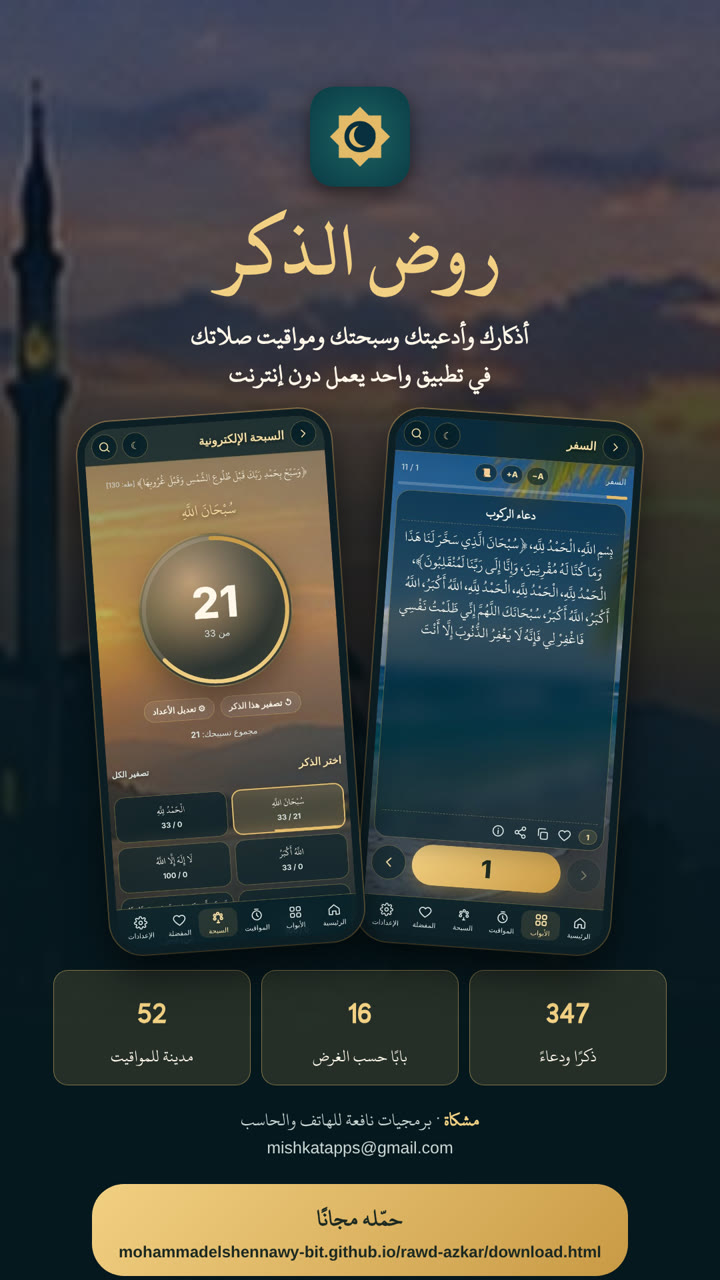
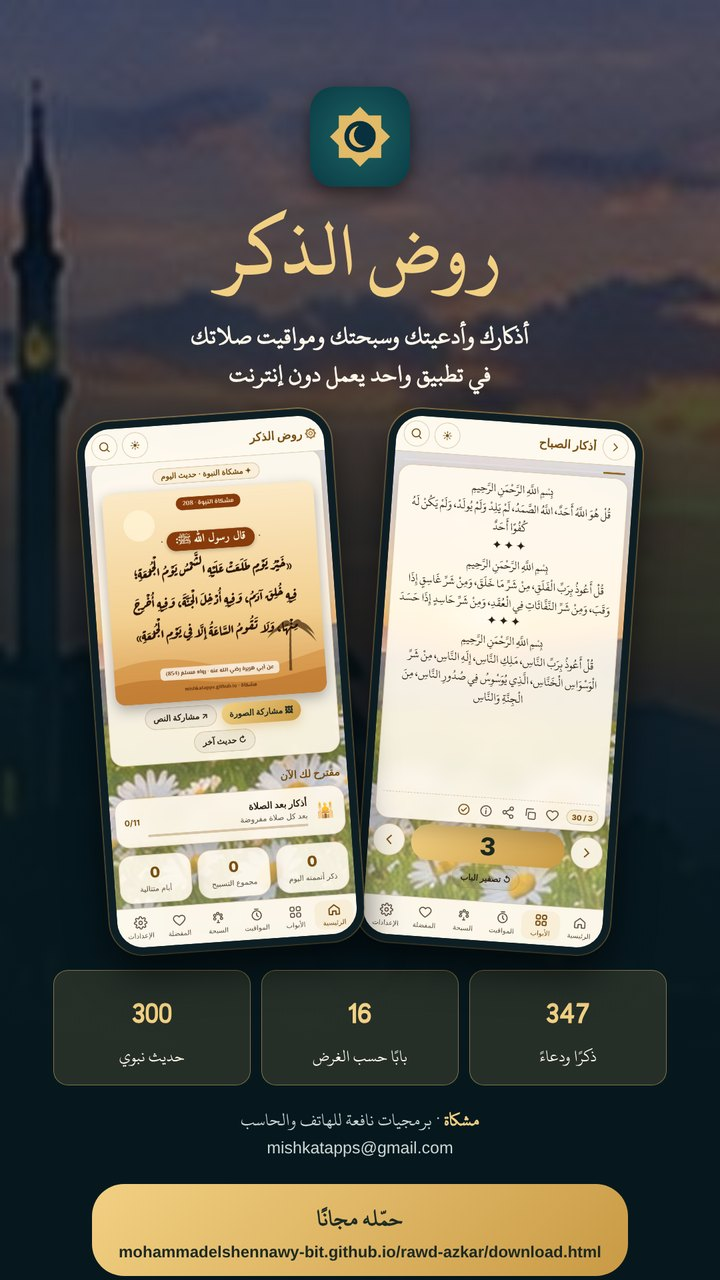
Add files via upload

diff --git a/index.html b/index.html
@@ -108,7 +108,7 @@ footer{text-align:center;color:var(--mut);font-size:14px;padding:30px 20px calc(
 <script>/* يظهر رابط «بوابة البرامج» فقط إذا فعّله المدير */(function(){try{fetch("https://uakmtakkctlkjvuityug.supabase.co/rest/v1/rpc/portal_status",{method:"POST",headers:{apikey:"sb_publishable_qHWTZdtAJgTlYMmYuGq2mA_6nE8nX-J","Content-Type":"application/json"},body:"{}"}).then(function(r){return r.ok?r.json():false}).then(function(v){if(v===true){var a=document.getElementById("mkPortalLink");if(a)a.style.display=""}}).catch(function(){})}catch(e){}})();</script>
 
 <header class="hero" id="top"><div class="wrap">
-<div class="heroapps"><a class="appbtn" href="https://mohammadelshennawy-bit.github.io/Quran-app/" data-ev="open-quran"><img src="img/quran-icon.png" alt=""><span data-en="The Noble Quran">المصحف الشريف</span></a><a class="appbtn" href="https://mohammadelshennawy-bit.github.io/rawd-azkar/" data-ev="open-rawd"><img src="img/rawd-icon.png" alt=""><span data-en="Rawd al-Dhikr">روض الذكر</span></a></div>
+<div class="heroapps"><a class="appbtn" href="https://mohammadelshennawy-bit.github.io/Quran-app/" data-ev="open-quran"><img src="img/quran-icon.png?v=2" alt=""><span data-en="The Noble Quran">المصحف الشريف</span></a><a class="appbtn" href="https://mohammadelshennawy-bit.github.io/rawd-azkar/" data-ev="open-rawd"><img src="img/rawd-icon.png?v=2" alt=""><span data-en="Rawd al-Dhikr">روض الذكر</span></a></div>
 <img src="img/mishkat.svg" alt="شعار مشكاة" data-en-alt="Mishkat logo">
 <h1 data-en="Mishkat">مشكاة</h1>
 <div class="en">MISHKAT APPS</div>
@@ -137,11 +137,11 @@ footer{text-align:center;color:var(--mut);font-size:14px;padding:30px 20px calc(
 <section id="apps"><div class="wrap">
 <h2 data-en="Our Apps">تطبيقاتنا</h2><p class="sub" data-en="Download the app you want — or open it in your browser from the buttons at the top of the page">حمّل التطبيق الذي تريده — أو افتحه في المتصفح من الزرين أعلى الصفحة</p>
 <div class="apps">
- <article class="app"><div class="h"><img src="img/quran-icon.png" alt=""><div><h3 data-en="The Noble Quran">المصحف الشريف</h3><small data-en="Hafs ʿan ʿAsim narration">برواية حفص عن عاصم</small><span class="ver" id="verQuran">…</span></div></div>
-  <ul data-en="<li>114 surahs and 6,236 verses in the Uthmani script</li><li>5 Mushaf fonts, including the Madinah Mushaf (Hafs), with adjustable size</li><li>Page view or continuous scroll, with night and day modes</li><li>Surah and Juz index, search in the Quran text, and bookmarks</li><li>Prayer times for 50 cities or your location, with a countdown to the next prayer</li><li>Works fully offline — free and ad-free</li>"><li>114 سورة و6236 آية بالرسم العثماني</li><li>5 خطوط للمصحف منها خط مصحف المدينة النبوية، مع تكبير الخط</li><li>عرض صفحات أو تمرير متصل، ووضع ليلي ونهاري</li><li>فهرس السور والأجزاء، والبحث في نص القرآن، وعلامات مرجعية</li><li>مواقيت الصلاة لـ50 مدينة أو لموقعك، مع عدّاد للصلاة القادمة</li><li>يعمل كاملًا دون إنترنت — مجاني وبلا إعلانات</li></ul>
+ <article class="app"><div class="h"><img src="img/quran-icon.png?v=2" alt=""><div><h3 data-en="The Noble Quran">المصحف الشريف</h3><small data-en="Hafs ʿan ʿAsim narration">برواية حفص عن عاصم</small><span class="ver" id="verQuran">…</span></div></div>
+  <ul data-en="&lt;li&gt;The complete Holy Quran in the Uthmani script&lt;/li&gt;&lt;li&gt;5 Mushaf fonts, including the Madinah Mushaf (Hafs), with adjustable size&lt;/li&gt;&lt;li&gt;Page view or continuous scroll, with night and day modes&lt;/li&gt;&lt;li&gt;Reading statistics: letters, words, verses and time for every session, with Khatma tracking&lt;/li&gt;&lt;li&gt;Surah and Juz index, search in the Quran text, and bookmarks&lt;/li&gt;&lt;li&gt;Prayer times for 52 cities or your location, with a countdown to the next prayer&lt;/li&gt;&lt;li&gt;Backup of your data; works fully offline — free and ad-free&lt;/li&gt;"><li>القرآن الكريم كاملًا بالرسم العثماني</li><li>5 خطوط للمصحف منها خط مصحف المدينة النبوية، مع تكبير الخط</li><li>عرض صفحات أو تمرير متصل، ووضع ليلي ونهاري</li><li>إحصاءات القراءة: الأحرف والكلمات والآيات وزمن كل جلسة، مع متابعة الختمة</li><li>فهرس السور والأجزاء، والبحث في نص القرآن، وعلامات مرجعية</li><li>مواقيت الصلاة لـ52 مدينة أو لموقعك، مع عدّاد للصلاة القادمة</li><li>نسخ احتياطي لبياناتك، ويعمل كاملًا دون إنترنت — مجاني وبلا إعلانات</li></ul>
   <div class="btns"><a class="btn gold" href="https://mohammadelshennawy-bit.github.io/Quran-app/download.html" data-ev="dl-quran" data-en="⬇ Download &amp; install">⬇ تحميل وتثبيت</a></div></article>
- <article class="app"><div class="h"><img src="img/rawd-icon.png" alt=""><div><h3 data-en="Rawd al-Dhikr">روض الذكر</h3><small data-en="Fully-vowelled adhkar &amp; duas — Arabic &amp; English">الأذكار والأدعية مشكولةً — بالعربية والإنجليزية</small><span class="ver" id="verRawd">…</span></div></div>
-  <ul data-en="<li>347 adhkar and duas in 16 sections, from Hisn al-Muslim and the Prophet’s ﷺ comprehensive supplications</li><li>Smart counter for every dhikr: complete or reset with one tap, with virtue and source</li><li>Automatic reset by prayer times: morning at Fajr, evening at Asr, sleep at Maghrib</li><li>Prayer times, “Suggested for you now”, and morning/evening/sleep reminders</li><li>Electronic tasbih with ready adhkar and your own custom adhkar</li><li>English: transliteration and translation under every dhikr · 3 themes and 4 Quranic fonts</li>"><li>347 ذكرًا ودعاءً في 16 بابًا من «حصن المسلم» وجوامع دعاء النبي <span style="font-family:Amiri,serif">ﷺ</span></li><li>عدّاد ذكي لكل ذكر: إتمام العدّ والتصفير بضغطة، مع الفضل والتخريج</li><li>تصفير تلقائي بمواقيت الصلاة: الصباح عند الفجر، والمساء عند العصر، والنوم عند المغرب</li><li>مواقيت الصلاة و«مقترح لك الآن» وتذكيرات الصباح والمساء والنوم</li><li>سبحة إلكترونية بأذكار جاهزة وأذكارك الخاصة</li><li>الإنجليزية: النطق والترجمة تحت كل ذكر · 3 سمات و4 خطوط قرآنية</li></ul>
+ <article class="app"><div class="h"><img src="img/rawd-icon.png?v=2" alt=""><div><h3 data-en="Rawd al-Dhikr">روض الذكر</h3><small data-en="Fully-vowelled adhkar &amp; duas — Arabic &amp; English">الأذكار والأدعية مشكولةً — بالعربية والإنجليزية</small><span class="ver" id="verRawd">…</span></div></div>
+  <ul data-en="&lt;li&gt;347 adhkar and duas in 16 sections, from Hisn al-Muslim and the Prophet’s ﷺ comprehensive supplications&lt;/li&gt;&lt;li&gt;Smart counter for every dhikr: complete or reset with one tap, with virtue and source&lt;/li&gt;&lt;li&gt;Automatic reset by prayer times: morning at Fajr, evening at Asr, sleep at Maghrib&lt;/li&gt;&lt;li&gt;“Mishkat al-Nubuwwa”: a fully-vowelled Prophetic hadith every day, from 300 hadiths, on a shareable card&lt;/li&gt;&lt;li&gt;Occasion greetings with stickers and images to share, and early reminders of upcoming occasions&lt;/li&gt;&lt;li&gt;Prayer times, “Suggested for you now”, and morning/evening/sleep reminders&lt;/li&gt;&lt;li&gt;Electronic tasbih with ready adhkar and your own custom adhkar&lt;/li&gt;&lt;li&gt;English: transliteration and translation under every dhikr · 3 themes and 4 Quranic fonts&lt;/li&gt;"><li>347 ذكرًا ودعاءً في 16 بابًا من «حصن المسلم» وجوامع دعاء النبي <span style="font-family:Amiri,serif">ﷺ</span></li><li>عدّاد ذكي لكل ذكر: إتمام العدّ والتصفير بضغطة، مع الفضل والتخريج</li><li>تصفير تلقائي بمواقيت الصلاة: الصباح عند الفجر، والمساء عند العصر، والنوم عند المغرب</li><li>«مشكاة النبوة»: حديث نبوي مشكول كل يوم من 300 حديث في بطاقة للمشاركة</li><li>تهاني المناسبات مع ملصقات وصور للمشاركة، وتذكير مسبق بالمناسبات</li><li>مواقيت الصلاة و«مقترح لك الآن» وتذكيرات الصباح والمساء والنوم</li><li>سبحة إلكترونية بأذكار جاهزة وأذكارك الخاصة</li><li>الإنجليزية: النطق والترجمة تحت كل ذكر · 3 سمات و4 خطوط قرآنية</li></ul>
   <div class="btns"><a class="btn gold" href="https://mohammadelshennawy-bit.github.io/rawd-azkar/download.html" data-ev="dl-rawd" data-en="⬇ Download &amp; install">⬇ تحميل وتثبيت</a></div></article>
 </div>
 <div class="stkHead"><h3><img src="img/stickers-icon.png" alt="" style="width:40px;height:40px;vertical-align:middle;border-radius:10px"> <span data-en="Mishkat Stickers — three WhatsApp apps">ملصقات مشكاة — ثلاثة تطبيقات لواتساب</span><span class="ver" id="verStk">…</span></h3>

diff --git a/media.html b/media.html
@@ -101,12 +101,12 @@ footer{text-align:center;color:var(--mut);font-size:14px;padding:30px 20px calc(
 <h2 data-en="Our Apps’ Ads">إعلانات تطبيقاتنا</h2><p class="sub" data-en="Share them with your family and friends — swipe the images left or right">شاركها مع أهلك وأصدقائك — اسحب الصور يمينًا أو يسارًا</p>
 <div class="tabs2"><button class="on" data-t="quran" data-en="The Noble Quran">المصحف الشريف</button><button data-t="rawd" data-en="Rawd al-Dhikr">روض الذكر</button></div>
 <div class="pane" id="p-quran"><div class="media">
- <div class="mcol"><h3 data-en="Ad images">صور الإعلان</h3><div class="cw"><div class="car" dir="rtl"><img src="ads/quran-1.jpg" alt="إعلان المصحف الشريف 1" loading="eager"><img src="ads/quran-2.jpg" alt="إعلان المصحف الشريف 2" loading="eager"><img src="ads/quran-3.jpg" alt="إعلان المصحف الشريف 3" loading="lazy"><img src="ads/quran-4.jpg" alt="إعلان المصحف الشريف 4" loading="lazy"><img src="ads/quran-5.jpg" alt="إعلان المصحف الشريف 5" loading="lazy"><img src="ads/quran-6.jpg" alt="إعلان المصحف الشريف 6" loading="lazy"><img src="ads/quran-7.jpg" alt="إعلان المصحف الشريف 7" loading="lazy"></div><span class="cnt">1/7</span><button class="nav pv" aria-label="السابقة" data-en-aria-label="Previous" hidden><svg width="18" height="18" viewBox="0 0 24 24" fill="none" stroke="currentColor" stroke-width="2.6" stroke-linecap="round" stroke-linejoin="round" style="display:block;margin:auto"><path d="M9 6l6 6-6 6"/></svg></button><button class="nav nx" aria-label="التالية" data-en-aria-label="Next"><svg width="18" height="18" viewBox="0 0 24 24" fill="none" stroke="currentColor" stroke-width="2.6" stroke-linecap="round" stroke-linejoin="round" style="display:block;margin:auto"><path d="M15 6l-6 6 6 6"/></svg></button></div><div class="dots"><i data-i="0" class=on></i><i data-i="1"></i><i data-i="2"></i><i data-i="3"></i><i data-i="4"></i><i data-i="5"></i><i data-i="6"></i></div></div>
+ <div class="mcol"><h3 data-en="Ad images">صور الإعلان</h3><div class="cw"><div class="car" dir="rtl"><img src="ads/quran-1.jpg?v=2" alt="إعلان المصحف الشريف 1" loading="eager"><img src="ads/quran-2.jpg?v=2" alt="إعلان المصحف الشريف 2" loading="eager"><img src="ads/quran-3.jpg?v=2" alt="إعلان المصحف الشريف 3" loading="lazy"><img src="ads/quran-4.jpg?v=2" alt="إعلان المصحف الشريف 4" loading="lazy"><img src="ads/quran-5.jpg?v=2" alt="إعلان المصحف الشريف 5" loading="lazy"><img src="ads/quran-6.jpg?v=2" alt="إعلان المصحف الشريف 6" loading="lazy"><img src="ads/quran-7.jpg?v=2" alt="إعلان المصحف الشريف 7" loading="lazy"></div><span class="cnt">1/7</span><button class="nav pv" aria-label="السابقة" data-en-aria-label="Previous" hidden><svg width="18" height="18" viewBox="0 0 24 24" fill="none" stroke="currentColor" stroke-width="2.6" stroke-linecap="round" stroke-linejoin="round" style="display:block;margin:auto"><path d="M9 6l6 6-6 6"/></svg></button><button class="nav nx" aria-label="التالية" data-en-aria-label="Next"><svg width="18" height="18" viewBox="0 0 24 24" fill="none" stroke="currentColor" stroke-width="2.6" stroke-linecap="round" stroke-linejoin="round" style="display:block;margin:auto"><path d="M15 6l-6 6 6 6"/></svg></button></div><div class="dots"><i data-i="0" class=on></i><i data-i="1"></i><i data-i="2"></i><i data-i="3"></i><i data-i="4"></i><i data-i="5"></i><i data-i="6"></i></div></div>
  <div class="mcol"><h3 data-en="Ad video">فيديو الإعلان</h3><video class="vid" controls playsinline preload="none" poster="video/quran-poster.jpg"><source src="video/quran.mp4" type="video/mp4"></video>
  <div class="dl"><a class="btn" href="video/quran.mp4" download data-en="⬇ Download video">⬇ تحميل الفيديو</a></div></div>
 </div><p style="text-align:center;margin-top:20px"><a class="btn gold" href="https://mohammadelshennawy-bit.github.io/Quran-app/download.html" data-en="⬇ Download The Noble Quran app">⬇ تحميل تطبيق المصحف الشريف</a></p></div>
 <div class="pane" id="p-rawd" hidden><div class="media">
- <div class="mcol"><h3 data-en="Ad images">صور الإعلان</h3><div class="cw"><div class="car" dir="rtl"><img src="ads/rawd-1.jpg" alt="إعلان روض الذكر 1" loading="eager"><img src="ads/rawd-2.jpg" alt="إعلان روض الذكر 2" loading="eager"><img src="ads/rawd-3.jpg" alt="إعلان روض الذكر 3" loading="lazy"><img src="ads/rawd-4.jpg" alt="إعلان روض الذكر 4" loading="lazy"><img src="ads/rawd-5.jpg" alt="إعلان روض الذكر 5" loading="lazy"><img src="ads/rawd-6.jpg" alt="إعلان روض الذكر 6" loading="lazy"><img src="ads/rawd-7.jpg" alt="إعلان روض الذكر 7" loading="lazy"></div><span class="cnt">1/7</span><button class="nav pv" aria-label="السابقة" data-en-aria-label="Previous" hidden><svg width="18" height="18" viewBox="0 0 24 24" fill="none" stroke="currentColor" stroke-width="2.6" stroke-linecap="round" stroke-linejoin="round" style="display:block;margin:auto"><path d="M9 6l6 6-6 6"/></svg></button><button class="nav nx" aria-label="التالية" data-en-aria-label="Next"><svg width="18" height="18" viewBox="0 0 24 24" fill="none" stroke="currentColor" stroke-width="2.6" stroke-linecap="round" stroke-linejoin="round" style="display:block;margin:auto"><path d="M15 6l-6 6 6 6"/></svg></button></div><div class="dots"><i data-i="0" class=on></i><i data-i="1"></i><i data-i="2"></i><i data-i="3"></i><i data-i="4"></i><i data-i="5"></i><i data-i="6"></i></div></div>
+ <div class="mcol"><h3 data-en="Ad images">صور الإعلان</h3><div class="cw"><div class="car" dir="rtl"><img src="ads/rawd-1.jpg?v=2" alt="إعلان روض الذكر 1" loading="eager"><img src="ads/rawd-2.jpg?v=2" alt="إعلان روض الذكر 2" loading="eager"><img src="ads/rawd-3.jpg?v=2" alt="إعلان روض الذكر 3" loading="lazy"><img src="ads/rawd-4.jpg?v=2" alt="إعلان روض الذكر 4" loading="lazy"><img src="ads/rawd-5.jpg?v=2" alt="إعلان روض الذكر 5" loading="lazy"><img src="ads/rawd-6.jpg?v=2" alt="إعلان روض الذكر 6" loading="lazy"><img src="ads/rawd-7.jpg?v=2" alt="إعلان روض الذكر 7" loading="lazy"></div><span class="cnt">1/7</span><button class="nav pv" aria-label="السابقة" data-en-aria-label="Previous" hidden><svg width="18" height="18" viewBox="0 0 24 24" fill="none" stroke="currentColor" stroke-width="2.6" stroke-linecap="round" stroke-linejoin="round" style="display:block;margin:auto"><path d="M9 6l6 6-6 6"/></svg></button><button class="nav nx" aria-label="التالية" data-en-aria-label="Next"><svg width="18" height="18" viewBox="0 0 24 24" fill="none" stroke="currentColor" stroke-width="2.6" stroke-linecap="round" stroke-linejoin="round" style="display:block;margin:auto"><path d="M15 6l-6 6 6 6"/></svg></button></div><div class="dots"><i data-i="0" class=on></i><i data-i="1"></i><i data-i="2"></i><i data-i="3"></i><i data-i="4"></i><i data-i="5"></i><i data-i="6"></i></div></div>
  <div class="mcol"><h3 data-en="Ad video">فيديو الإعلان</h3><video class="vid" controls playsinline preload="none" poster="video/rawd-poster.jpg"><source src="video/rawd.mp4" type="video/mp4"></video>
  <div class="dl"><a class="btn" href="video/rawd.mp4" download data-en="⬇ Download video">⬇ تحميل الفيديو</a></div></div>
 </div><p style="text-align:center;margin-top:20px"><a class="btn gold" href="https://mohammadelshennawy-bit.github.io/rawd-azkar/download.html" data-en="⬇ Download the Rawd al-Dhikr app">⬇ تحميل تطبيق روض الذكر</a></p></div>
